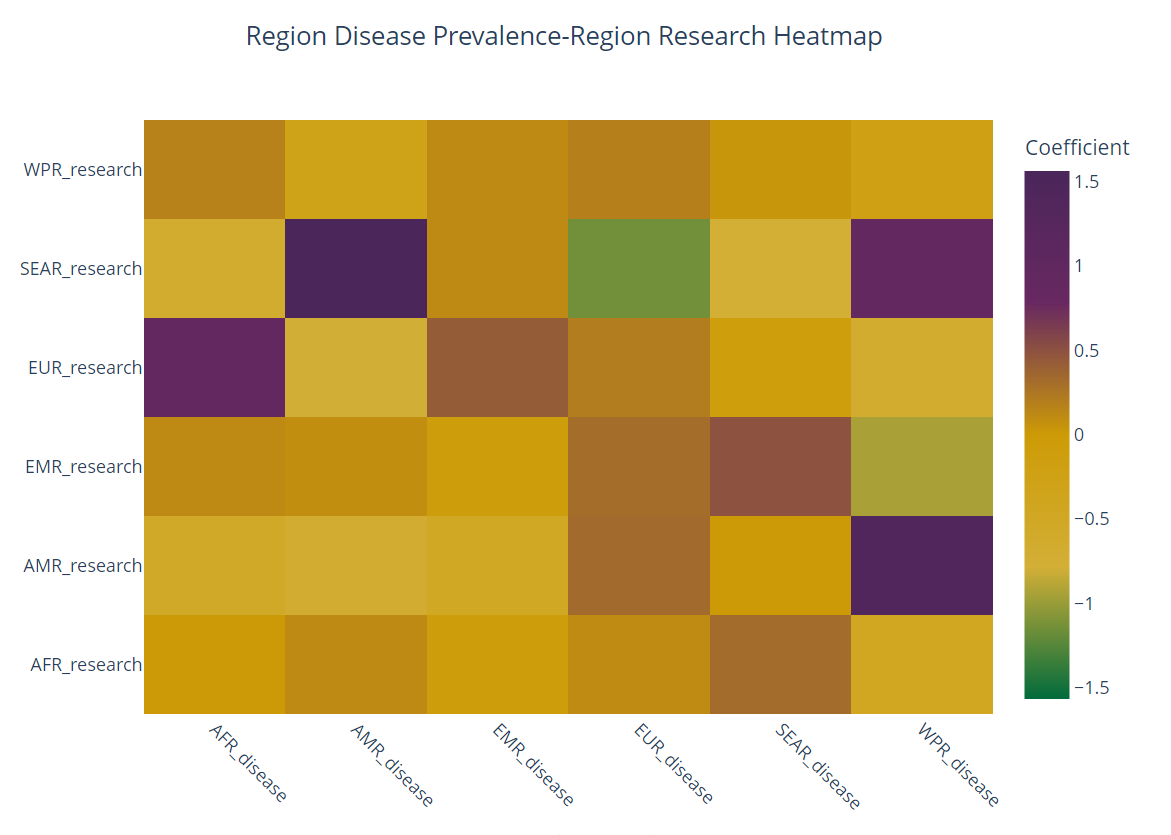
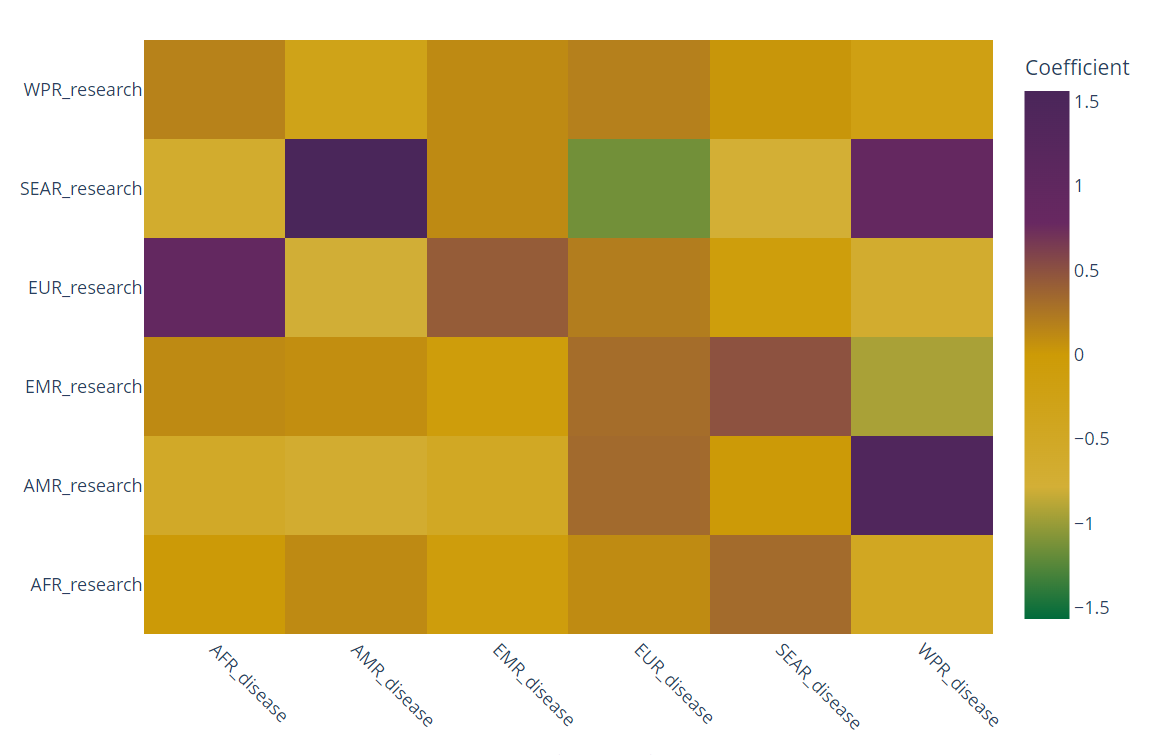
fix heatmaps

diff --git a/pages/0geo_analysis.md b/pages/0geo_analysis.md
@@ -203,7 +203,7 @@ nav-menu: true
 	</section>
 	<section>
 		<a class="image">
-			<img src="{% link assets/images/who_heatmap.png %}" alt=""/>
+			<img src="{% link assets/images/research_heatmap.png %}" alt=""/>
 		</a>
 		<div class="content">
 			<div class="inner">
